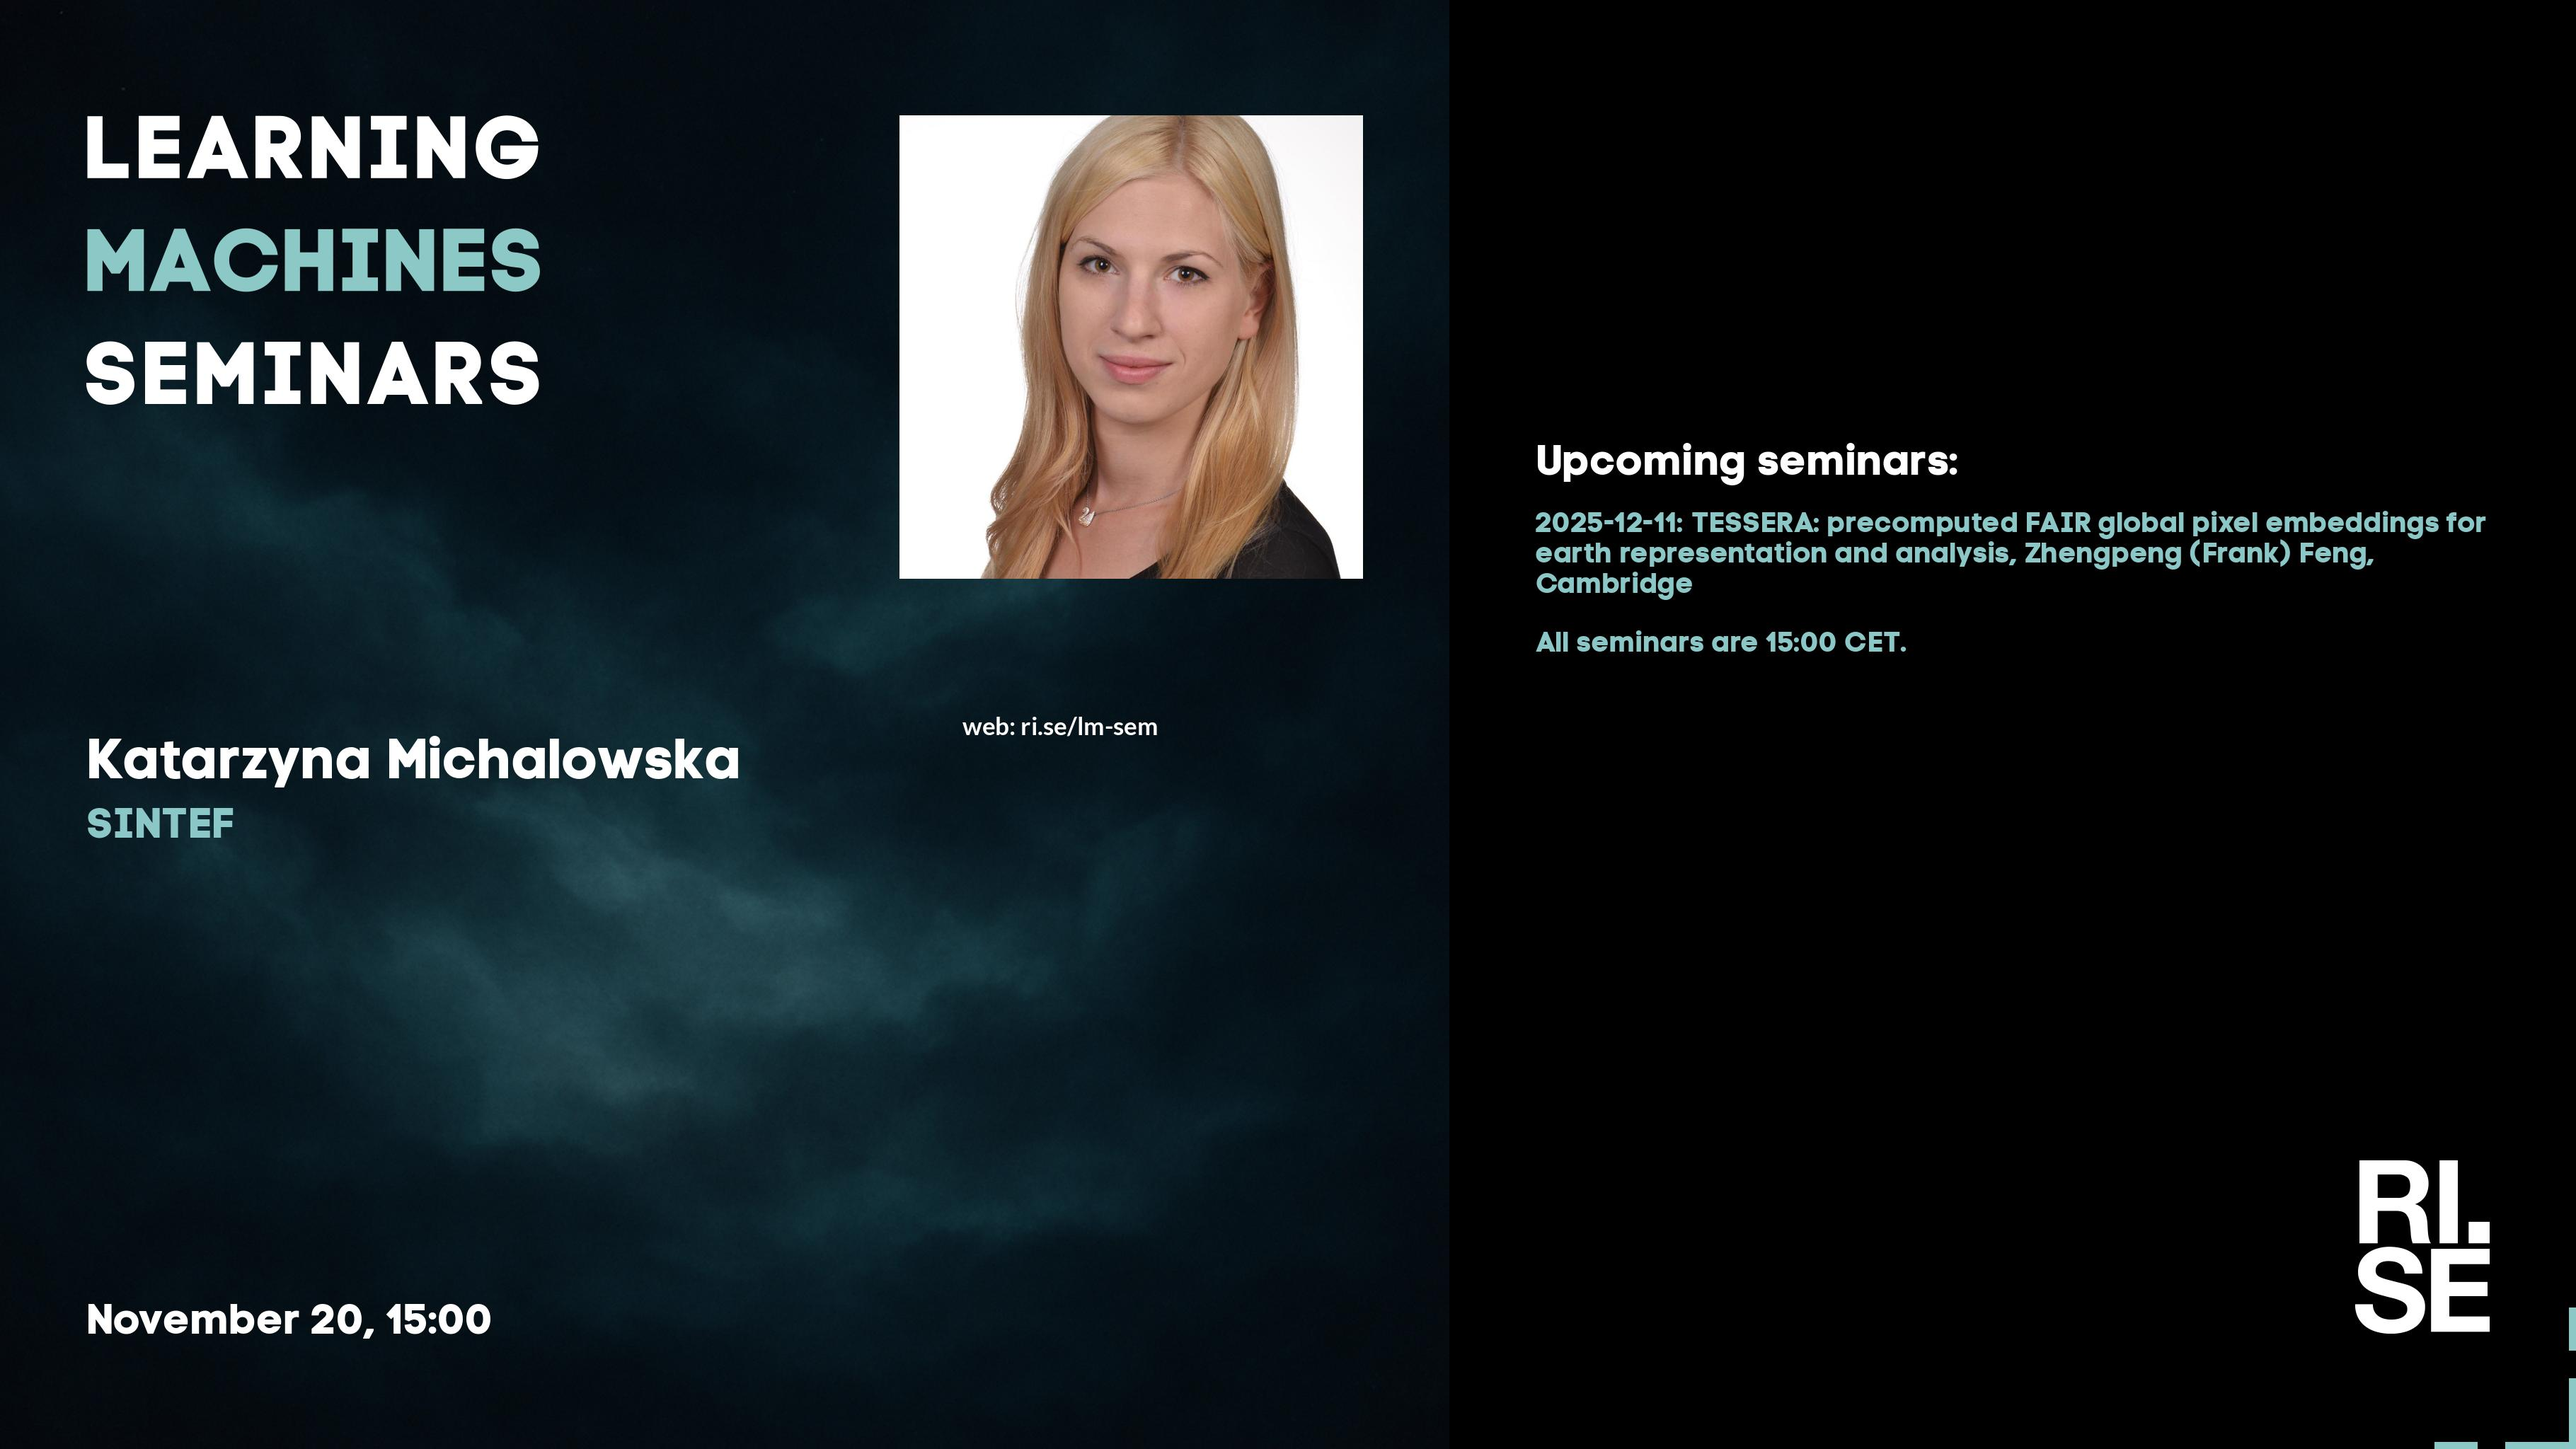
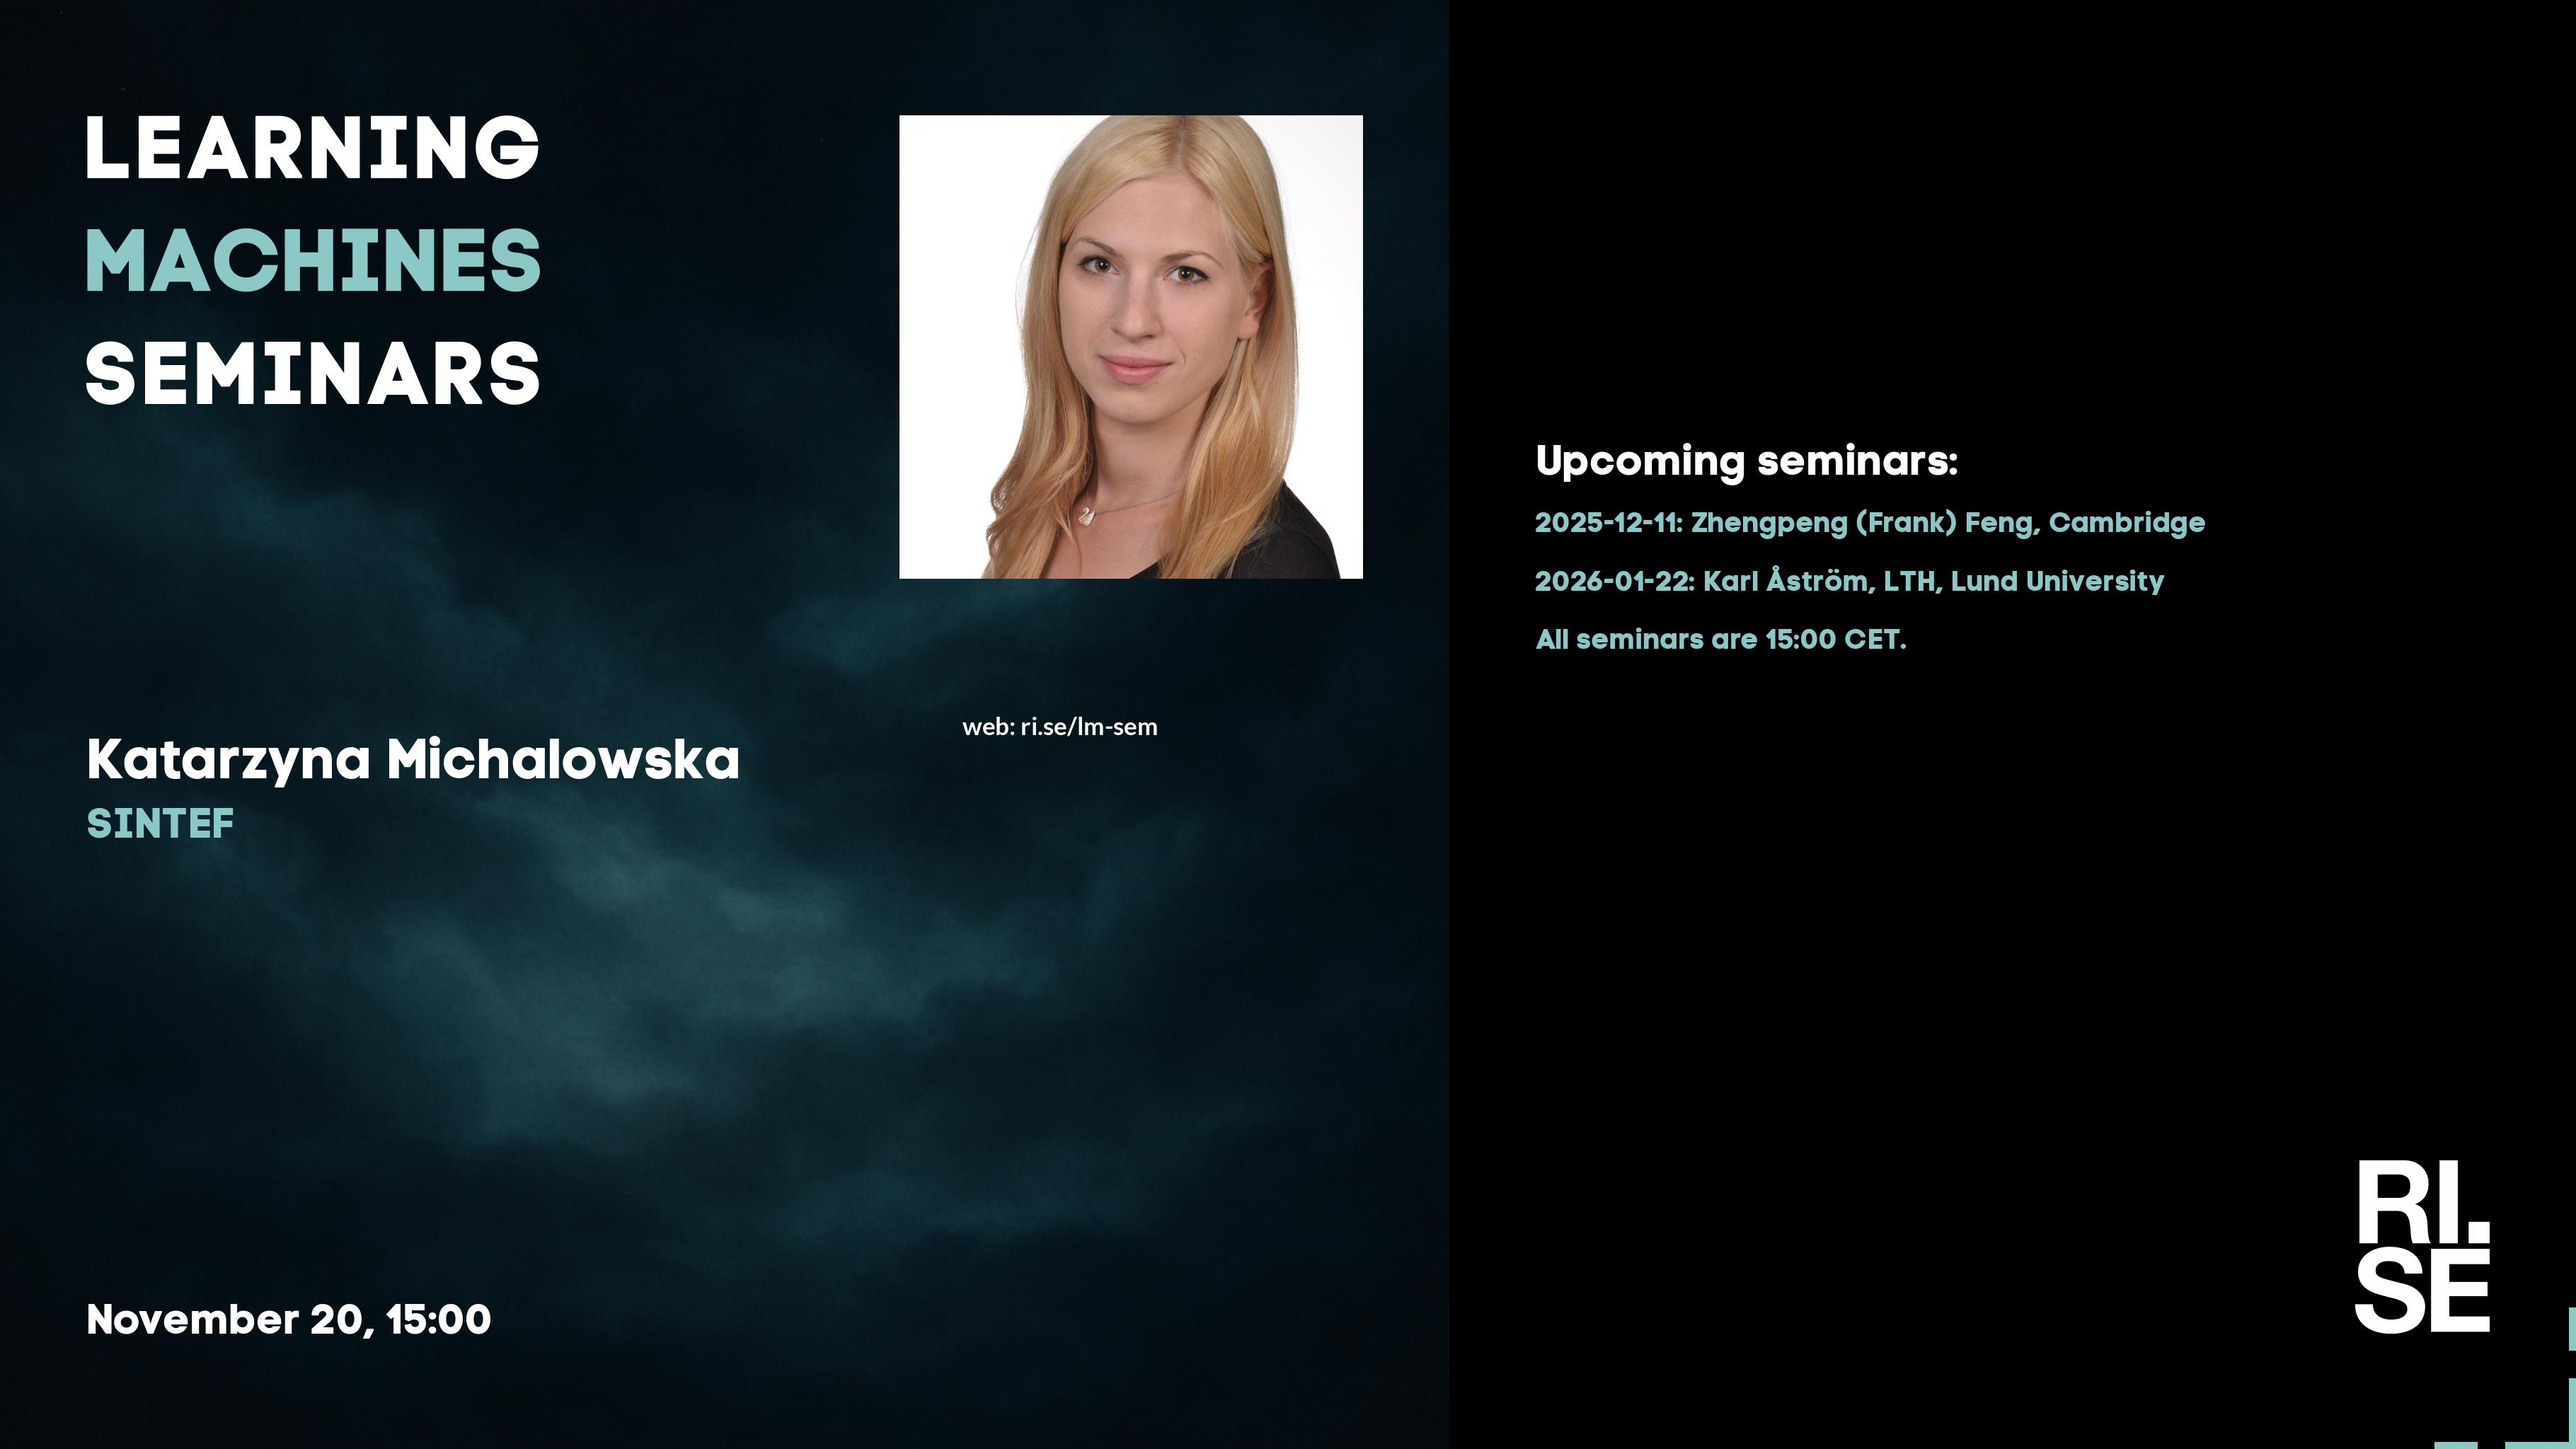
Updated plan on web site.

Changed region(s): [[0.5898, 0.3438, 0.9624, 0.4062], [0.5898, 0.4375, 0.7451, 0.4688]]

diff --git a/lm/2025.md b/lm/2025.md
@@ -42,7 +42,7 @@ table {border-collapse: collapse;}
 |  2025-11-20  |  [Katarzyna Michalowska, SINTEF](2025-11-20.md)  |  [photo](2025-11-20-photo-katarzyna-michalowska.jpg)  |  [social media bg ](2025-11-20-social-media-bg-katarzyna-michalowska.jpg) --- [social media photo ](2025-11-20-social-media-photo-katarzyna-michalowska.jpg) --- [social media 169 ](2025-11-20-social-media-169-katarzyna-michalowska.jpg)  |  [meeting backdrop ](2025-11-20-meeting-backdrop-katarzyna-michalowska.jpg)  |  [youtube thumbnail ](2025-11-20-youtube-thumbnail-katarzyna-michalowska.jpg)  |  S~~TAB~~P  |
 | <span style="color:purple"> 2025-11-27 </span> | <span style="color:purple"> *Up for grabs!!!* </span> | <span style="color:purple">  </span> | <span style="color:purple">  ---  ---  </span> | <span style="color:purple">  </span> | <span style="color:purple">  </span> | <span style="color:purple"> ~~STABP~~ </span> |
 |  2025-12-11  |  [Zhengpeng (Frank) Feng, Cambridge](2025-12-11.md)  |    |  [social media bg ](2025-12-11-social-media-bg-zhengpeng-(frank)-feng.jpg) --- [social media photo ](2025-12-11-social-media-photo-zhengpeng-(frank)-feng.jpg) --- [social media 169 ](2025-12-11-social-media-169-zhengpeng-(frank)-feng.jpg)  |  [meeting backdrop ](2025-12-11-meeting-backdrop-zhengpeng-(frank)-feng.jpg)  |  [youtube thumbnail ](2025-12-11-youtube-thumbnail-zhengpeng-(frank)-feng.jpg)  |  STAB~~P~~  |
-| <span style="color:grey"> 2026-01-22 </span> | <span style="color:grey"> Kalle Å. ? </span> | <span style="color:grey">  </span> | <span style="color:grey">  ---  ---  </span> | <span style="color:grey">  </span> | <span style="color:grey">  </span> | <span style="color:grey"> S~~TABP~~ </span> |
+|  2026-01-22  |  [Karl Åström, LTH, Lund University](2026-01-22.md)  |    |  [social media bg ](2026-01-22-social-media-bg-karl-astrom.jpg) --- [social media photo ](2026-01-22-social-media-photo-karl-astrom.jpg) --- [social media 169 ](2026-01-22-social-media-169-karl-astrom.jpg)  |  [meeting backdrop ](2026-01-22-meeting-backdrop-karl-astrom.jpg)  |  [youtube thumbnail ](2026-01-22-youtube-thumbnail-karl-astrom.jpg)  |  S~~TABP~~  |
 | <span style="color:purple"> 2026-02-05 </span> | <span style="color:purple"> *Up for grabs!!!* </span> | <span style="color:purple">  </span> | <span style="color:purple">  ---  ---  </span> | <span style="color:purple">  </span> | <span style="color:purple">  </span> | <span style="color:purple"> ~~STABP~~ </span> |
 | <span style="color:purple"> 2026-03-05 </span> | <span style="color:purple"> *Up for grabs!!!* </span> | <span style="color:purple">  </span> | <span style="color:purple">  ---  ---  </span> | <span style="color:purple">  </span> | <span style="color:purple">  </span> | <span style="color:purple"> ~~STABP~~ </span> |
 | <span style="color:purple"> 2026-03-19 </span> | <span style="color:purple"> *Up for grabs!!!* </span> | <span style="color:purple">  </span> | <span style="color:purple">  ---  ---  </span> | <span style="color:purple">  </span> | <span style="color:purple">  </span> | <span style="color:purple"> ~~STABP~~ </span> |

diff --git a/lm/index.md b/lm/index.md
@@ -42,7 +42,7 @@ table {border-collapse: collapse;}
 |  2025-11-20  |  [Katarzyna Michalowska, SINTEF](2025-11-20.md)  |  [photo](2025-11-20-photo-katarzyna-michalowska.jpg)  |  [social media bg ](2025-11-20-social-media-bg-katarzyna-michalowska.jpg) --- [social media photo ](2025-11-20-social-media-photo-katarzyna-michalowska.jpg) --- [social media 169 ](2025-11-20-social-media-169-katarzyna-michalowska.jpg)  |  [meeting backdrop ](2025-11-20-meeting-backdrop-katarzyna-michalowska.jpg)  |  [youtube thumbnail ](2025-11-20-youtube-thumbnail-katarzyna-michalowska.jpg)  |  S~~TAB~~P  |
 | <span style="color:purple"> 2025-11-27 </span> | <span style="color:purple"> *Up for grabs!!!* </span> | <span style="color:purple">  </span> | <span style="color:purple">  ---  ---  </span> | <span style="color:purple">  </span> | <span style="color:purple">  </span> | <span style="color:purple"> ~~STABP~~ </span> |
 |  2025-12-11  |  [Zhengpeng (Frank) Feng, Cambridge](2025-12-11.md)  |    |  [social media bg ](2025-12-11-social-media-bg-zhengpeng-(frank)-feng.jpg) --- [social media photo ](2025-12-11-social-media-photo-zhengpeng-(frank)-feng.jpg) --- [social media 169 ](2025-12-11-social-media-169-zhengpeng-(frank)-feng.jpg)  |  [meeting backdrop ](2025-12-11-meeting-backdrop-zhengpeng-(frank)-feng.jpg)  |  [youtube thumbnail ](2025-12-11-youtube-thumbnail-zhengpeng-(frank)-feng.jpg)  |  STAB~~P~~  |
-| <span style="color:grey"> 2026-01-22 </span> | <span style="color:grey"> Kalle Å. ? </span> | <span style="color:grey">  </span> | <span style="color:grey">  ---  ---  </span> | <span style="color:grey">  </span> | <span style="color:grey">  </span> | <span style="color:grey"> S~~TABP~~ </span> |
+|  2026-01-22  |  [Karl Åström, LTH, Lund University](2026-01-22.md)  |    |  [social media bg ](2026-01-22-social-media-bg-karl-astrom.jpg) --- [social media photo ](2026-01-22-social-media-photo-karl-astrom.jpg) --- [social media 169 ](2026-01-22-social-media-169-karl-astrom.jpg)  |  [meeting backdrop ](2026-01-22-meeting-backdrop-karl-astrom.jpg)  |  [youtube thumbnail ](2026-01-22-youtube-thumbnail-karl-astrom.jpg)  |  S~~TABP~~  |
 | <span style="color:purple"> 2026-02-05 </span> | <span style="color:purple"> *Up for grabs!!!* </span> | <span style="color:purple">  </span> | <span style="color:purple">  ---  ---  </span> | <span style="color:purple">  </span> | <span style="color:purple">  </span> | <span style="color:purple"> ~~STABP~~ </span> |
 | <span style="color:purple"> 2026-03-05 </span> | <span style="color:purple"> *Up for grabs!!!* </span> | <span style="color:purple">  </span> | <span style="color:purple">  ---  ---  </span> | <span style="color:purple">  </span> | <span style="color:purple">  </span> | <span style="color:purple"> ~~STABP~~ </span> |
 | <span style="color:purple"> 2026-03-19 </span> | <span style="color:purple"> *Up for grabs!!!* </span> | <span style="color:purple">  </span> | <span style="color:purple">  ---  ---  </span> | <span style="color:purple">  </span> | <span style="color:purple">  </span> | <span style="color:purple"> ~~STABP~~ </span> |

diff --git a/lm/2026-01-22.md b/lm/2026-01-22.md
@@ -2,13 +2,13 @@
 layout: default
 metatags: "<meta name=\"robots\" content=\"noindex,nofollow\" />"
 ---
-<img src="/lm/2025-11-20-youtube-thumbnail-katarzyna-michalowska.jpg" />
+<img src="/lm/2026-01-22-youtube-thumbnail-karl-åström.jpg" />
  
 Welcome to this week's Learning Machines seminar.
 
 **Title:** N/A
 
-**Speaker:** Katarzyna Michalowska, SINTEF
+**Speaker:** Karl Åström, LTH, Lund University
 
 **Abstract:** N/A
 
@@ -16,14 +16,12 @@ Welcome to this week's Learning Machines seminar.
 
 **Location:** This is an online seminar. Connect using Zoom.
 
-**Date:** 2025-11-20 15:00
+**Date:** 2026-01-22 15:00
 
-**Zoom link:** [https://rise.zoom.us/j/69691371971?pwd=mENKSYwKSsxwVv3E6dsPyvmNwEcfhE.1](https://rise.zoom.us/j/69691371971?pwd=mENKSYwKSsxwVv3E6dsPyvmNwEcfhE.1)
+**Zoom link:** [N/A](N/A)
 
 **Upcoming seminars:**
 
-* 2025-12-11: Zhengpeng (Frank) Feng, Cambridge
-* 2026-01-22: Karl Åström, LTH, Lund University
 * All seminars are 15:00 CET.
 
 More information and coming seminars: [https://ri.se/lm-sem](https://ri.se/lm-sem)

diff --git a/lm/statistics-2026.md b/lm/statistics-2026.md
@@ -10,11 +10,11 @@ title: Learning Machines Statistics 2026
 
 
 
-## 0 speakers
+## 1 speakers
 
+Karl Åström
 
+## 1 affiliations
 
-## 0 affiliations
-
-
+LTH, Lund University
 
